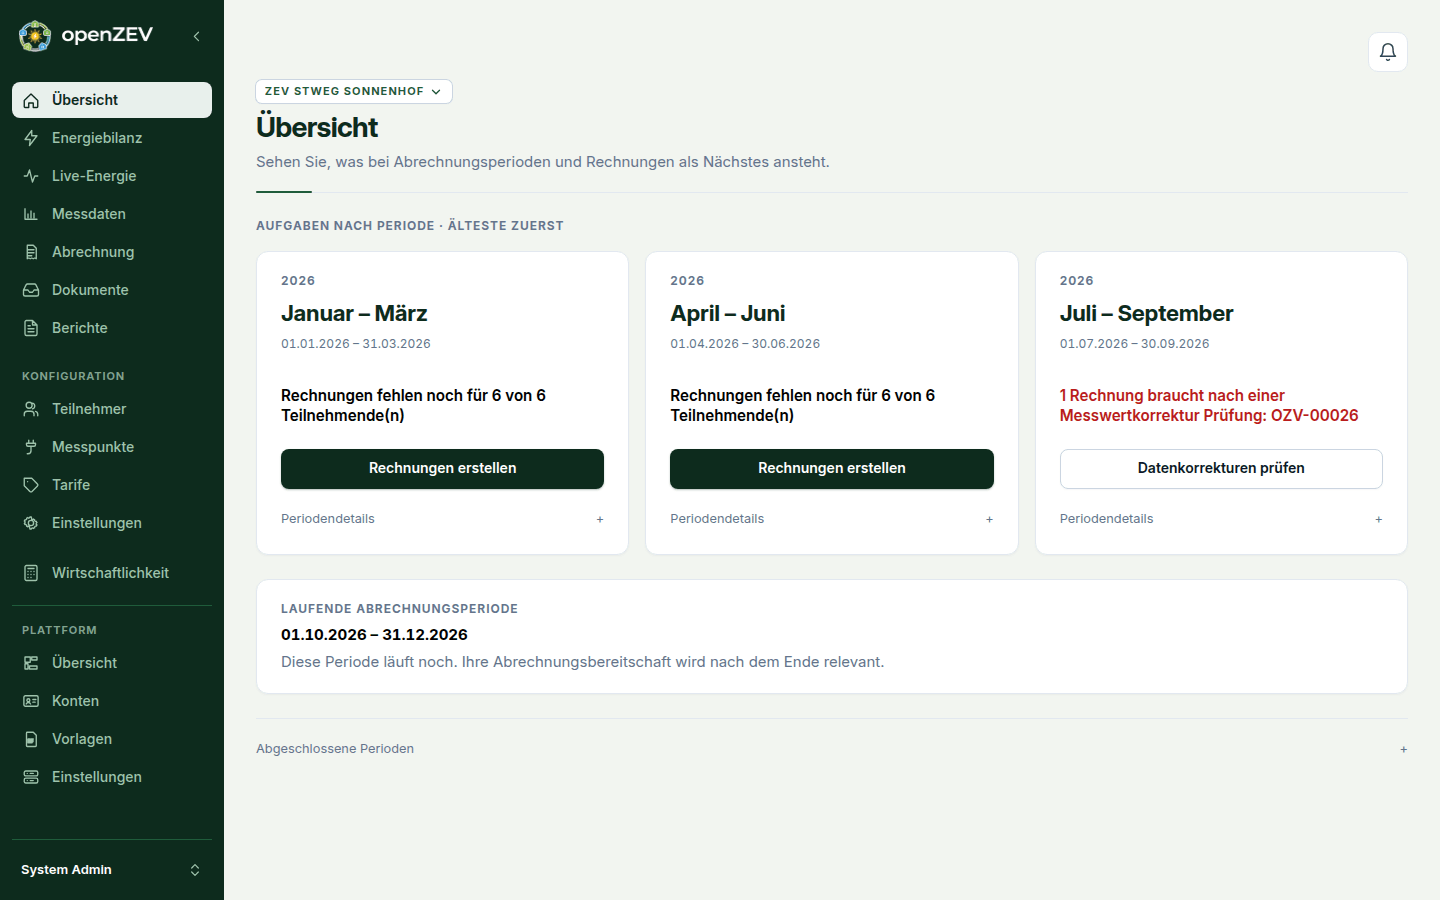
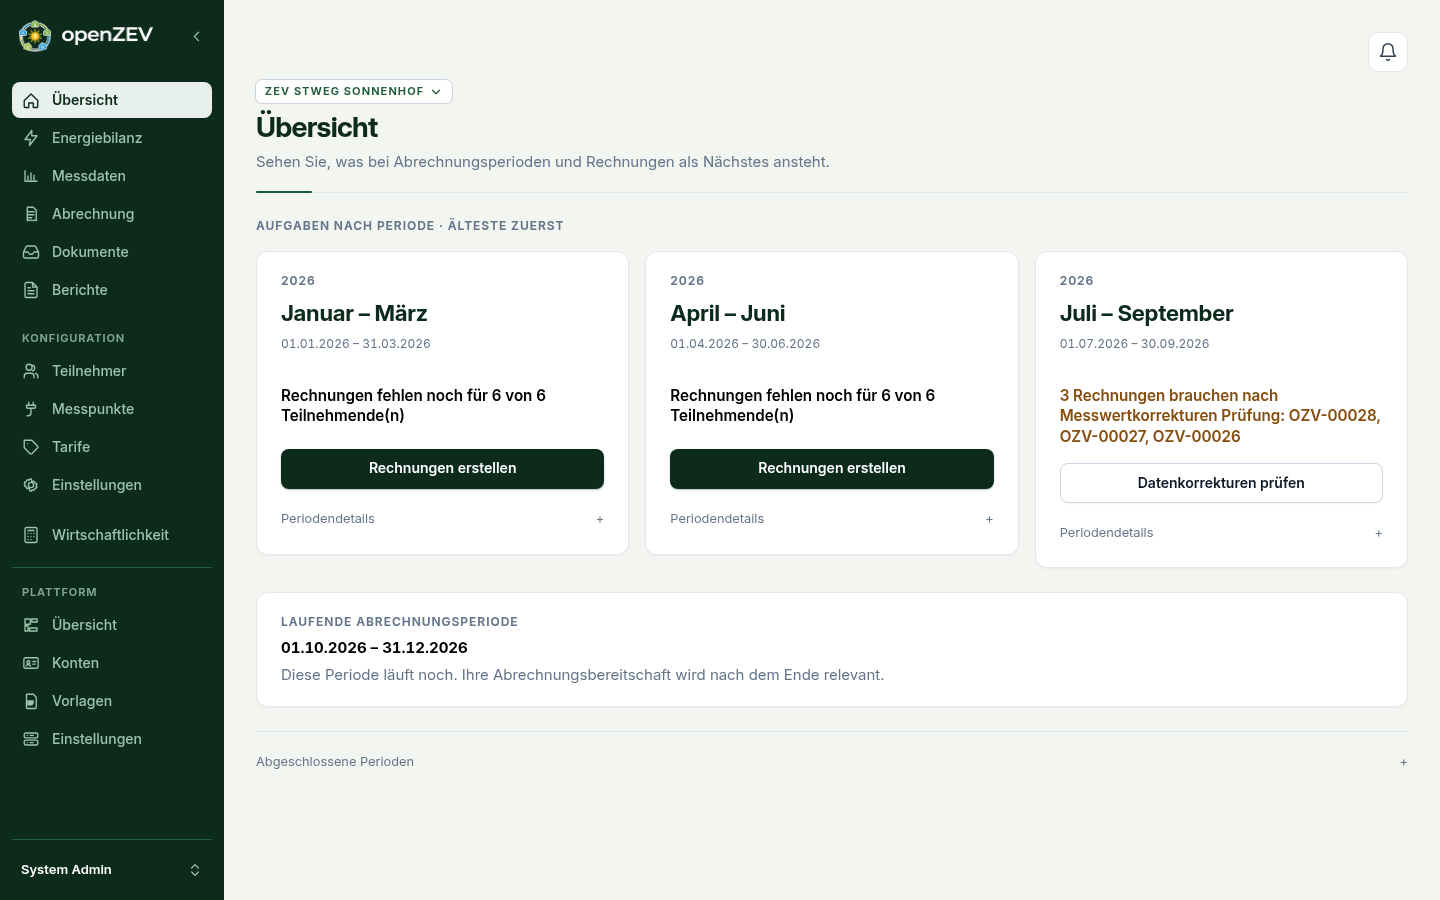
fix(frontend): distinguish invoice warning severity on overview cards (#1277)
Use red for failed deliveries, missing tariff coverage, unassigned readings,
and generation conflicts; dark gold for items to review. Keep routine steps
neutral and warning links visibly underlined.

Clarify the severity rules and cover rendered links at desktop and narrow widths.

diff --git a/frontend/tests/overview-period-cards.test.ts b/frontend/tests/overview-period-cards.test.ts
@@ -4,7 +4,7 @@ import { MemoryRouter } from 'react-router-dom'
 import { afterEach, describe, expect, it, vi } from 'vitest'
 import { BillingPeriodCard } from '../src/components/BillingPeriodCard'
 import { groupPeriodCards, primaryPeriodStep } from '../src/features/overview/periodCards'
-import type { AttentionItem, ReadinessPeriod } from '../src/types/api'
+import type { AttentionItem, ReadinessPeriod, ReadinessStep } from '../src/types/api'
 
 vi.mock('react-i18next', () => ({ useTranslation: () => ({
     t: (key: string, values?: { count?: number }) => `${key}${values?.count === undefined ? '' : `:${values.count}`}`,
@@ -34,6 +34,65 @@ function render(entry: Parameters<typeof BillingPeriodCard>[0]['entry']) {
 }
 
 describe('Overview period cards', () => {
+    it.each<[ReadinessStep['key'], ReadinessStep['status'], string, ReadinessPeriod['next_action']]>([
+        ['data_corrections', 'warn', 'caution', 'review_data_corrections'],
+        ['metering', 'warn', 'caution', 'fix_metering'],
+        ['charges', 'todo', 'caution', 'generate'],
+        ['charges', 'warn', 'caution', 'generate'],
+        ['assignments', 'warn', 'issue', 'fix_assignments'],
+        ['tariffs', 'warn', 'issue', 'fix_tariffs'],
+        ['tariffs', 'todo', 'issue', 'fix_tariffs'],
+        ['generation_conflicts', 'warn', 'issue', 'review_generation_conflicts'],
+    ])('applies severity to primary and non-primary %s steps (%s)', (key, status, tone, action) => {
+        const readiness = period()
+        const step: ReadinessStep = { key, status, count: 2, link: '/fix' }
+        readiness.steps = [step]
+        readiness.next_action = action
+        const primary = render({ period: readiness.period, readiness, alerts: [] })
+        expect(primary.querySelector(`.overview-period-lead.overview-period-${tone}`)).not.toBeNull()
+        expect(primary.querySelector('.overview-period-card > a')?.classList.contains(
+            status === 'warn' ? 'button-secondary' : 'button-primary',
+        )).toBe(true)
+        readiness.next_action = 'none'
+        const secondary = render({ period: readiness.period, readiness, alerts: [] })
+        expect(secondary.querySelector(status === 'warn'
+            ? `.overview-period-warning.overview-period-${tone} a[href="/fix"]`
+            : `.overview-period-pending .overview-period-${tone}`)).not.toBeNull()
+    })
+
+    it.each<[ReadinessStep['key'], ReadinessPeriod['next_action']]>([
+        ['generated', 'generate'],
+        ['approved', 'approve'],
+        ['sent', 'send'],
+        ['paid', 'track_payments'],
+    ])('leaves the routine %s step neutral as the primary action', (key, action) => {
+        const readiness = period()
+        readiness.steps = [{ key, status: 'todo', count: 1, total: 2, link: '/billing/invoices' }]
+        readiness.next_action = action
+        const container = render({ period: readiness.period, readiness, alerts: [] })
+        expect(container.querySelector('.overview-period-lead')).not.toBeNull()
+        expect(container.querySelector('.overview-period-issue, .overview-period-caution')).toBeNull()
+        expect(container.querySelector('.overview-period-card > a')?.classList.contains('button-primary')).toBe(true)
+    })
+
+    it.each<[ReadinessStep['key'], ReadinessStep['status']]>([
+        ['generated', 'todo'],
+        ['approved', 'todo'],
+        ['sent', 'todo'],
+        ['paid', 'todo'],
+        ['approved', 'done'],
+        ['metering', 'ok'],
+        ['tariffs', 'ok'],
+        ['charges', 'done'],
+    ])('leaves the routine or resolved %s step (%s) neutral in the disclosure', (key, status) => {
+        const readiness = period()
+        readiness.steps = [{ key, status, count: 1, total: 2 }]
+        readiness.next_action = 'none'
+        const container = render({ period: readiness.period, readiness, alerts: [] })
+        expect(container.textContent).toContain(`pages.dashboard.cockpit.stepLabels.${key}`)
+        expect(container.querySelector('.overview-period-issue, .overview-period-caution')).toBeNull()
+    })
+
     it('merges alerts by both dates and restores historical periods absent from readiness', () => {
         const quarter = period('2026-06-01', '2026-08-31')
         const result = groupPeriodCards([quarter], [alert('invoice_overdue')])
@@ -103,6 +162,10 @@ describe('Overview period cards', () => {
         expect(container.querySelectorAll('details li')).toHaveLength(1)
         expect(container.querySelector('.overview-period-work')?.textContent).toContain('pages.overview.cards.overdue:1')
         expect(container.querySelector('.overview-period-work')?.textContent).toContain('pages.overview.cards.failed:1')
+        expect(container.querySelector('.overview-period-caution')?.textContent).toContain('pages.overview.cards.overdue:1')
+        expect(container.querySelector('.overview-period-issue')?.textContent).toContain('pages.overview.cards.failed:1')
+        expect(container.querySelectorAll('.overview-period-pending .muted')).toHaveLength(2)
+        expect(container.querySelector('.overview-period-card > a')?.classList.contains('button-secondary')).toBe(true)
         expect(container.textContent).not.toContain('DO NOT RENDER')
         expect(container.textContent).toContain('Juni')
         expect(container.textContent).not.toContain('→')
@@ -120,6 +183,10 @@ describe('Overview period cards', () => {
         const container = render(groupPeriodCards([readiness], []).open[0])
         expect(container.querySelector('.overview-period-card > a')?.textContent).toBe('pages.dashboard.cockpit.nextActionLabels.review_generation_conflicts')
         expect(container.querySelector('.overview-period-warning a')?.getAttribute('href')).toBe('/metering/quality')
+        expect(container.querySelector('.overview-period-lead.overview-period-issue')?.textContent).toContain('stepDetails.conflictsWarn')
+        const warning = container.querySelector('a[href="/metering/quality"]')!
+        expect(warning.textContent).toContain('stepDetails.meteringWarn')
+        expect(warning.closest('p')?.classList.contains('overview-period-caution')).toBe(true)
         expect(container.querySelector('a[href="/unavailable"]')).toBeNull()
     })
 

diff --git a/frontend/src/components/BillingPeriodCard.tsx b/frontend/src/components/BillingPeriodCard.tsx
@@ -4,6 +4,16 @@ import { formatShortDate, useAppSettings } from '../lib/appSettings'
 import { Disclosure } from './Disclosure'
 import { groupInvoiceAlerts, isOpenStep, primaryPeriodStep, type PeriodCardEntry } from '../features/overview/periodCards'
 import { attentionText, stepDetailText } from '../features/overview/readinessPresentation'
+import type { ReadinessStep } from '../types/api'
+
+function stepSeverityClass(step: ReadinessStep): string {
+    const needsAttention = step.status === 'warn' || (
+        step.status === 'todo' && (step.key === 'tariffs' || step.key === 'charges')
+    )
+    if (!needsAttention) return ''
+    return ['assignments', 'tariffs', 'generation_conflicts'].includes(step.key)
+        ? 'overview-period-issue' : 'overview-period-caution'
+}
 
 export function BillingPeriodCard({ entry }: { entry: PeriodCardEntry }) {
     const { t, i18n } = useTranslation()
@@ -19,7 +29,8 @@ export function BillingPeriodCard({ entry }: { entry: PeriodCardEntry }) {
     const warnings = period.ended === false ? [] : (readiness?.steps ?? []).filter(
         (step) => step.status === 'warn' && step !== primary,
     )
-    const tone = overdue ? 'danger' : failed || warnings.length || primary?.status === 'warn' ? 'warning' : 'info'
+    const emphasizeAction = Boolean(primary?.link) && !overdue && !failed
+        && warnings.length === 0 && primary?.status !== 'warn'
     const invoicesUrl = `/billing/invoices?period_start=${period.start}&period_end=${period.end}`
     const destination = primary?.link || alerts[0]?.link || invoicesUrl
     const actionLabel = primary?.link && readiness
@@ -54,20 +65,20 @@ export function BillingPeriodCard({ entry }: { entry: PeriodCardEntry }) {
                 <p className="overview-period-range muted">{format(period.start)} – {format(period.end)}</p>
             </header>
             <div className="overview-period-work">
-                {detail && !(primary?.key === 'paid' && overdue) ? <p className={`overview-period-lead${primary?.status === 'warn' ? ' overview-period-issue' : ''}`}>{detail}</p> : null}
+                {detail && primary && !(primary.key === 'paid' && overdue) ? <p className={`overview-period-lead ${stepSeverityClass(primary)}`}>{detail}</p> : null}
                 {!detail && primary && readiness ? (
                     <p className="overview-period-lead">{t(`pages.dashboard.cockpit.nextActionLabels.${readiness.next_action}`)}</p>
                 ) : null}
-                {overdue > 0 && <p className="overview-period-lead overview-period-issue">{t('pages.overview.cards.overdue', { count: overdue })}</p>}
+                {overdue > 0 && <p className="overview-period-lead overview-period-caution">{t('pages.overview.cards.overdue', { count: overdue })}</p>}
                 {failed > 0 && <p className="overview-period-lead overview-period-issue">{t('pages.overview.cards.failed', { count: failed })}</p>}
                 {warnings.map((step) => (
-                    <p key={step.key} className="overview-period-warning overview-period-issue">
+                    <p key={step.key} className={`overview-period-warning ${stepSeverityClass(step)}`}>
                         {step.link ? <Link to={step.link}>{stepDetailText(step, t) || t(`pages.dashboard.cockpit.stepLabels.${step.key}`)}</Link>
                             : stepDetailText(step, t) || t(`pages.dashboard.cockpit.stepLabels.${step.key}`)}
                     </p>
                 ))}
             </div>
-            <Link className={`button button-${tone === 'info' && primary?.link ? 'primary' : 'secondary'}`} to={destination}>
+            <Link className={`button button-${emphasizeAction ? 'primary' : 'secondary'}`} to={destination}>
                 {actionLabel}
             </Link>
             {(detailSteps.length > 0 || alerts.length > 0 || (primary?.key === 'paid' && overdue > 0)) && (
@@ -83,7 +94,7 @@ export function BillingPeriodCard({ entry }: { entry: PeriodCardEntry }) {
                                         </Link>
                                     ) : <strong>{t(`pages.dashboard.cockpit.stepLabels.${step.key}`)}</strong>}
                                 </div>
-                                <span className={step.status === 'warn' ? 'overview-period-issue' : 'muted'}>{stepDetailText({ ...step, failed: 0 }, t) || t(`pages.dashboard.cockpit.statusLabels.${step.status}`)}</span>
+                                <span className={stepSeverityClass(step) || 'muted'}>{stepDetailText({ ...step, failed: 0 }, t) || t(`pages.dashboard.cockpit.statusLabels.${step.status}`)}</span>
                                 {step.link && (
                                     <Link className="overview-step-action" to={step.link}>{t('pages.dashboard.cockpit.openStep')}</Link>
                                 )}

diff --git a/frontend/screenshots/billing-presentation.spec.ts b/frontend/screenshots/billing-presentation.spec.ts
@@ -1,10 +1,57 @@
 import { expect, test } from '@playwright/test'
 import { apiErrors, mockApi, type ApiState } from './page-anatomy-fixtures'
-import type { Invoice, InvoicePeriodParticipantRow } from '../src/types/api'
+import type { AttentionItem, Invoice, InvoicePeriodParticipantRow, ReadinessPeriod } from '../src/types/api'
 
 // Check presentation and scope through the real router with controlled workflow states.
 test.use({ storageState: { cookies: [], origins: [] }, locale: 'en-CH' })
 test.afterEach(({ page }) => expect(apiErrors.get(page) ?? []).toEqual([]))
+
+test('overview warning links retain severity colours and underlines at desktop and narrow widths', async ({ page }, testInfo) => {
+  await mockApi(page)
+  const readiness: ReadinessPeriod = {
+    period: { start: '2026-09-01', end: '2026-09-30', interval: 'monthly', source: 'calendar', ended: true },
+    next_action: 'fix_metering',
+    steps: [
+      { key: 'metering', status: 'warn', count: 1, detail_data: { missing_days: 2 }, link: '/metering/quality' },
+      { key: 'tariffs', status: 'warn', count: 2, total: 30, link: '/tariffs' },
+      { key: 'charges', status: 'warn', count: 1, detail_data: { unbilled_charges: ['Parking'] }, link: '/billing/invoices' },
+    ],
+  }
+  const items: AttentionItem[] = [
+    { id: 'failed', type: 'email_failed', label: 'API fallback', invoice_number: 'R-FAIL',
+      recipient: 'participant@example.test', link: '/billing/invoices/1' },
+    { id: 'validity', type: 'participant_validity', label: 'API fallback', participant_name: 'Participant A',
+      valid_to: '2026-10-31', link: '/participants?focus=p1&field=valid_to' },
+  ]
+  await page.route('**/api/v1/invoices/invoices/readiness/**', route => route.fulfill({
+    json: { zev_id: '42', ...readiness, periods: [readiness] },
+  }))
+  await page.route('**/api/v1/invoices/invoices/attention/**', route => route.fulfill({ json: { zev_id: '42', items } }))
+  await page.goto('/')
+  const red = 'rgb(185, 28, 28)'
+  const gold = 'rgb(133, 77, 14)'
+  const links = [
+    [page.getByRole('link', { name: '2 of 30 day(s) without an energy tariff' }), red],
+    [page.getByRole('link', { name: '1 charge(s) have nobody to bill: Parking' }), gold],
+    [page.getByRole('link', { name: /Invoice R-FAIL.*email.*failed/ }), red],
+    [page.getByRole('link', { name: /Participant A ends.*check meter assignments/ }), gold],
+  ] as const
+  for (const width of [1440, 400]) {
+    await page.setViewportSize({ width, height: 900 })
+    if (width === 400) {
+      await expect.poll(() => page.locator('aside').evaluate(element => element.getBoundingClientRect().right)).toBeLessThanOrEqual(0)
+    }
+    await expect(page.locator('.overview-period-lead')).toHaveCSS('color', gold)
+    await expect(page.locator('.overview-community-notices')).toHaveCSS('background-color', 'rgb(255, 255, 255)')
+    for (const [link, color] of links) {
+      await expect(link).toBeVisible()
+      await expect(link).toHaveCSS('color', color)
+      await expect(link).toHaveCSS('text-decoration-line', 'underline')
+    }
+    expect(await page.evaluate(() => document.documentElement.scrollWidth > innerWidth)).toBe(false)
+    await page.screenshot({ path: testInfo.outputPath(`overview-severity-${width}.png`), fullPage: true })
+  }
+})
 
 const period = { period_start: '2026-09-01', period_end: '2026-09-30' }
 const invoice: Invoice = {

diff --git a/frontend/tests/billing-hubs.test.ts b/frontend/tests/billing-hubs.test.ts
@@ -118,6 +118,28 @@ describe('Billing hub interactions', () => {
         expect(container.querySelector('.error-banner')).toBeNull()
     })
 
+    it('colours community notices by severity', async () => {
+        api.readiness.mockResolvedValue([])
+        const { container } = await mount(() => createElement(BillingPeriodsPage, {
+            attentionQuery: { refetch: vi.fn(), isLoading: false, isError: false, data: [
+                {
+                    id: 'email_failed:1', type: 'email_failed', label: 'API fallback',
+                    invoice_id: '1', invoice_number: 'INV-1', recipient: 'anna@example.com',
+                    link: '/billing/invoices/1',
+                },
+                {
+                    id: 'participant_validity:1', type: 'participant_validity', label: 'API fallback',
+                    participant_id: '1', participant_name: 'Anna', valid_to: '2026-12-31',
+                    link: '/participants?focus=1&field=valid_to',
+                },
+            ] },
+        }))
+        const notices = container.querySelector('.overview-community-notices')!
+        expect(notices.querySelectorAll('li')).toHaveLength(2)
+        expect(notices.querySelector('a[href="/billing/invoices/1"]')?.closest('li')?.classList.contains('overview-period-issue')).toBe(true)
+        expect(notices.querySelector('a[href="/participants?focus=1&field=valid_to"]')?.closest('li')?.classList.contains('overview-period-caution')).toBe(true)
+    })
+
     it('does not declare periods completed when the alert query failed', async () => {
         const refetch = vi.fn()
         api.readiness.mockResolvedValue([{

diff --git a/frontend/src/pages/BillingPeriodsPage.tsx b/frontend/src/pages/BillingPeriodsPage.tsx
@@ -44,7 +44,9 @@ export function BillingPeriodsPage({ attentionQuery }: { attentionQuery?: Attent
                 <section className="card overview-community-notices">
                     <h3>{t('pages.overview.cards.communityNotices')}</h3>
                     <ul>{community.map((item) => (
-                        <li key={item.id}><Link to={item.link}>{attentionText(item, t, format)}</Link></li>
+                        <li key={item.id} className={item.type === 'email_failed' ? 'overview-period-issue' : 'overview-period-caution'}>
+                            <Link to={item.link}>{attentionText(item, t, format)}</Link>
+                        </li>
                     ))}</ul>
                 </section>
             )}

diff --git a/frontend/src/components/BillingPeriodCard.css b/frontend/src/components/BillingPeriodCard.css
@@ -51,8 +51,21 @@
   color: var(--danger-700);
 }
 
-.overview-period-issue a {
+.overview-period-caution {
+  color: var(--warning-800);
+}
+
+.overview-period-issue a,
+.overview-period-caution a {
   color: inherit;
+}
+
+.overview-period-issue a,
+.overview-period-caution a,
+.overview-step-link {
+  text-decoration: underline;
+  text-decoration-thickness: 1px;
+  text-underline-offset: 0.18em;
 }
 
 .overview-period-warning {
@@ -77,9 +90,6 @@
 
 .overview-step-link {
   font-weight: 700;
-  text-decoration: underline;
-  text-decoration-thickness: 1px;
-  text-underline-offset: 0.18em;
 }
 
 .overview-step-action {

diff --git a/docs/specs/2026-03-invoice-lifecycle-and-communication.md b/docs/specs/2026-03-invoice-lifecycle-and-communication.md
@@ -1358,8 +1358,16 @@ because approval still happens in Billing. Other readiness warnings remain
 visible with their resolution links. Delivery-failure counts use the maximum
 of readiness and attention counts, not their sum. Expanded details retain
 other steps and group alerts by invoice ID, so one invoice with two issues has
-one detail row. Pending detail steps appear first, a step that needs attention in red issue text rather than a status badge;
-both their titles and explicit open actions link to the relevant workflow, even
+one detail row. Readiness steps use consistent severity colours in every position:
+red for missing tariff coverage (including `todo`), unassigned readings
+and generation conflicts; dark gold (`--warning-800`) for correction review,
+metering gaps, unassigned charges and stale drafts (`charges: todo`).
+Overdue and participant-validity notices use dark gold; delivery-failure notices
+use red. Period summaries use the same colours; invoice-level alert descriptions
+in the disclosure remain muted. Routine and resolved readiness steps stay neutral.
+Linked warning text is underlined at rest. Pending steps use plain text and
+receive severity colours only when they need attention. Their titles and
+explicit open actions link to the relevant workflow, even
 when multiple steps share a destination. OK/done steps share a compact vertical checklist under
 **Checked and complete**, without repeated status or detail sentences. No backend English `detail` or `label` is rendered.
 
@@ -1380,7 +1388,11 @@ whether it contains one wrapping message or two short messages. The card grid us
 ≤700px. No arrow decorations appear in period dates or actions; disclosures
 use plus/minus. `overview-period-cards.test.ts` covers exact-date grouping,
 historical alerts, ordering, running periods, independent community notices,
-invoice deduplication, backend-selected actions and delivery count deduplication.
+invoice deduplication, backend-selected actions, delivery count deduplication,
+severity colours in primary and secondary positions, and neutral routine steps.
+`billing-hubs.test.ts` covers community-notice severity.
+`billing-presentation.spec.ts` checks rendered warning and community-notice link
+colours and persistent underlines at desktop and narrow widths.
 The former `/billing/periods` route still redirects to Overview.
 
 `InvoicesPage` renders its standalone title and `InvoicesContent`; the Billing

diff --git a/docs/user-guide/09-invoice-management.md b/docs/user-guide/09-invoice-management.md
@@ -7,6 +7,11 @@ This guide covers generating, reviewing, and managing invoices for participants.
 The manager **Overview** groups billing work into one card per period, oldest
 open period first. Each card shows the period status, the server-selected next
 action, overdue invoices and failed deliveries, and any additional warnings.
+Gold text highlights items to review: corrected meter data, data gaps, outdated
+drafts, charges without a recipient, overdue payments and participant validity
+notices. Red highlights delivery failures, missing tariff coverage, unassigned
+readings, and generation conflicts. Routine steps such as approval and sending
+stay neutral.
 Open **Period details** to see the remaining workflow steps and the compact
 **Checked and complete** checklist. Steps that open an actionable page link to
 it; a step that merely waits on an upstream one has no link. Data problems

diff --git a/docs/specs/2026-08-ui-redesign-pdf-style.md b/docs/specs/2026-08-ui-redesign-pdf-style.md
@@ -1275,8 +1275,9 @@ contracts are unchanged.
 - Admin accounts: the filter panel is no longer a sheet. Admin invoices: the
   delete action is compact (quiet destructive).
 - Overview: period cards (`.overview-period-card`) are plain sheets like the
-  current-period row, without a coloured top edge; the status pill carries
-  the tone.
+  current-period row, without a coloured top edge or status pill. Warning colours
+  follow the [invoice lifecycle severity rules](2026-03-invoice-lifecycle-and-communication.md#94-manager-overview-and-billing-email-delivery).
+  Routine and resolved workflow steps stay neutral; warning links stay underlined.
 - Login: §7.5.
 
 ### 15.5 Documents
